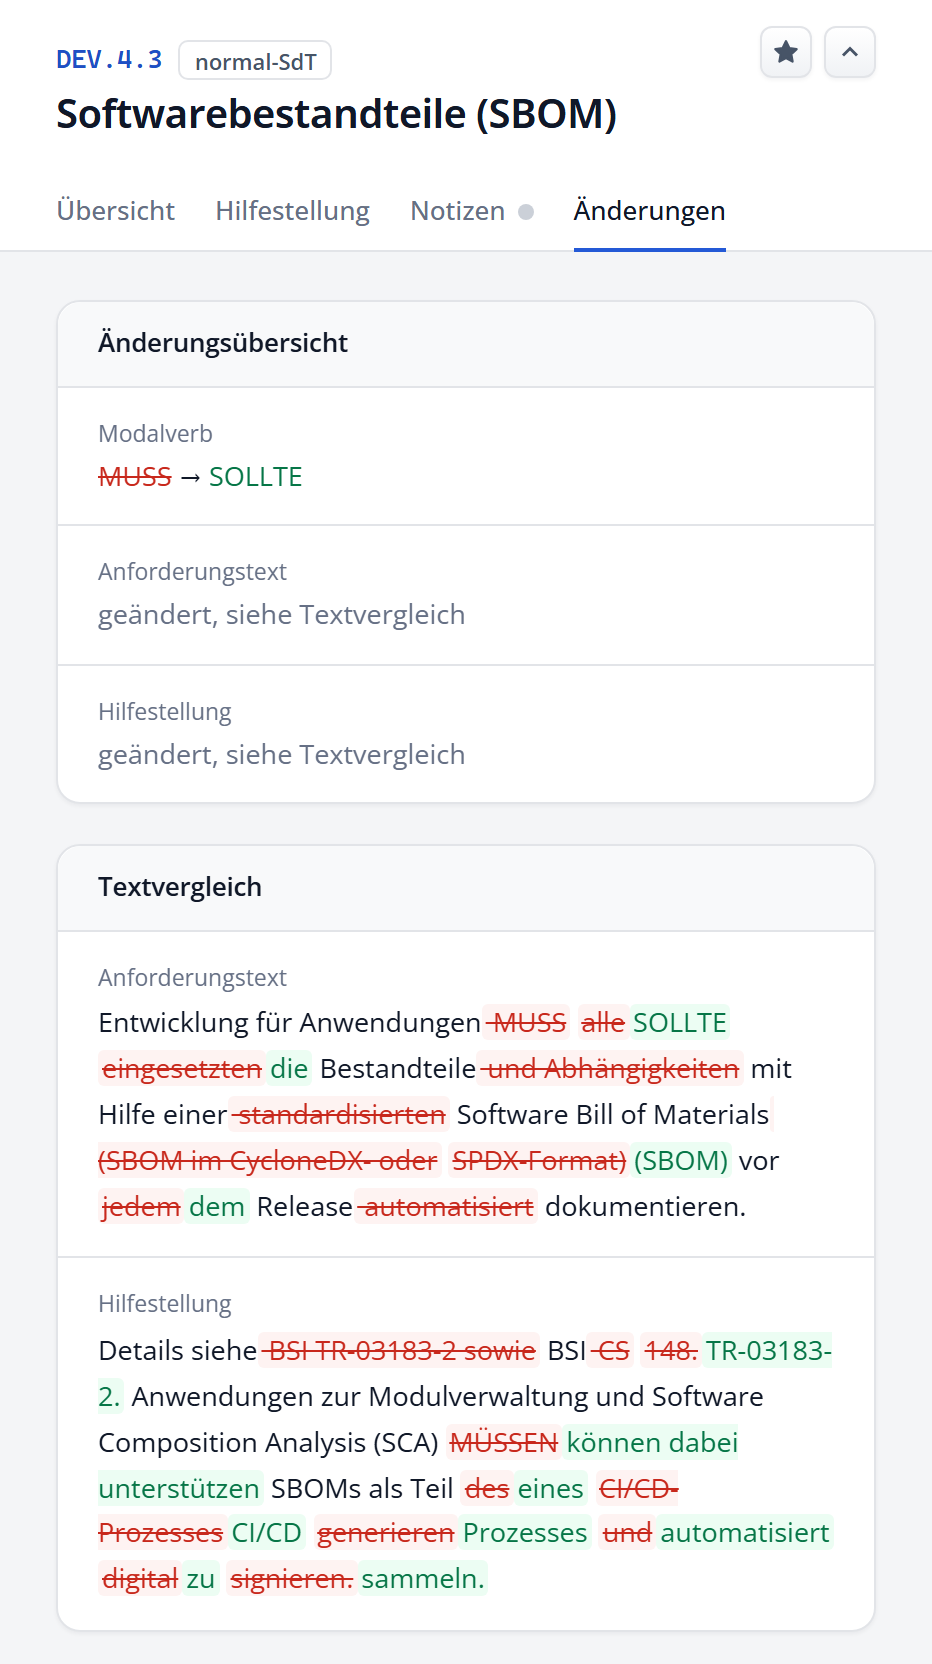
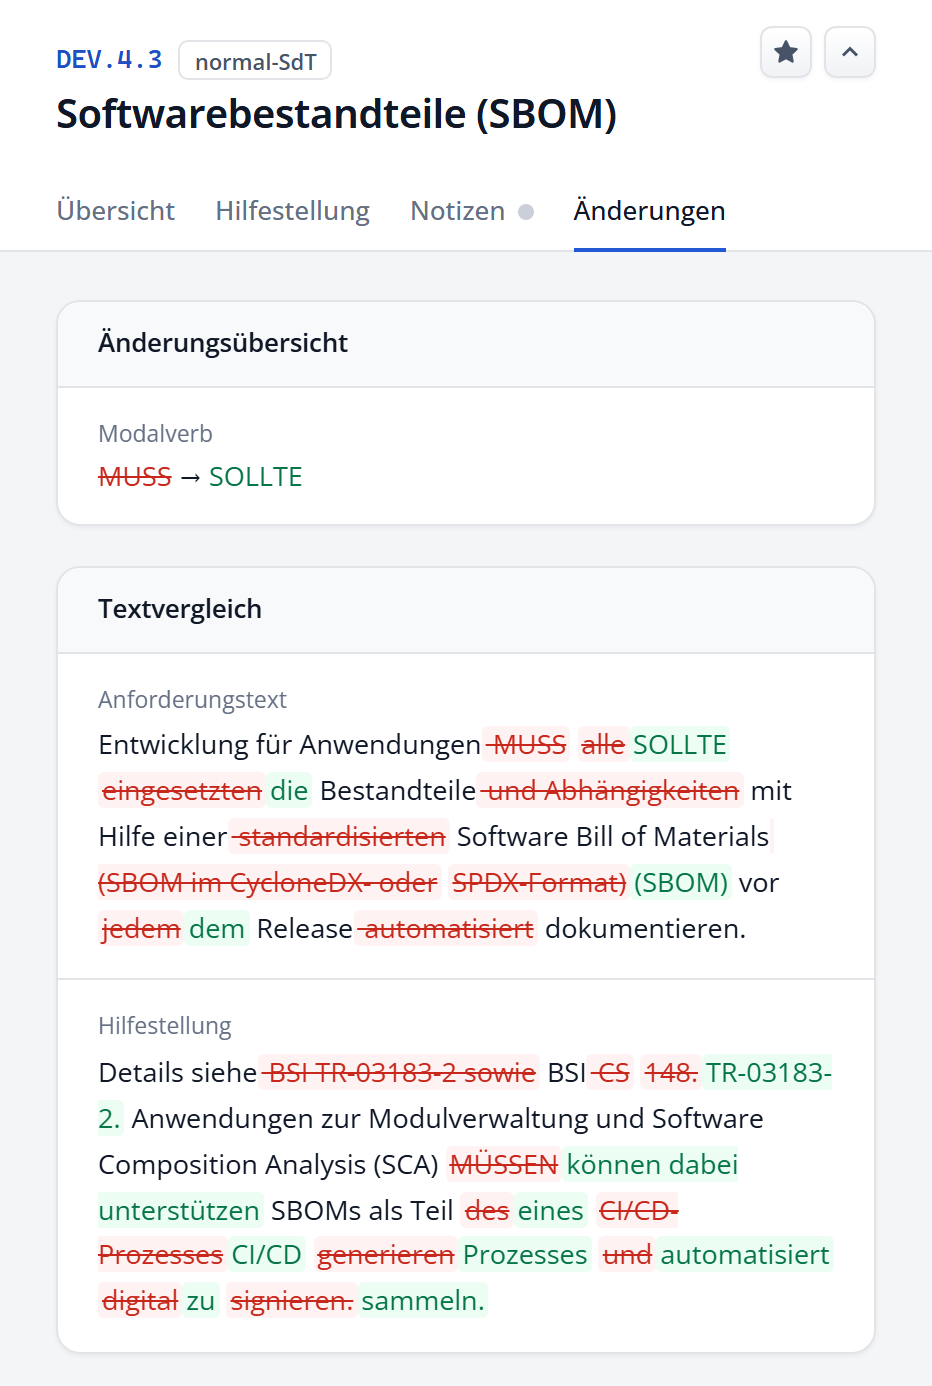
feat: update change overview logic and enhance UI for better clarity

diff --git a/src/index.html b/src/index.html
@@ -2413,7 +2413,7 @@
                 <!-- Änderungen -->
                 <div v-else-if="detailActiveTab === 'diff'" class="stack">
                   <!-- 1. Kategorieblock: Änderungsübersicht, je geändertes Feld eine Zeile -->
-                  <div v-if="selectedControl.diff" class="card">
+                  <div v-if="selectedControl.diff && (selectedControl.diff.status !== 'modified' || overviewChanges.length)" class="card">
                     <div class="card-head">
                       <h3>Änderungsübersicht</h3>
                     </div>
@@ -2424,10 +2424,9 @@
                         <dd v-else-if="selectedControl.diff.status === 'deleted'">Nur im Vergleichsstand enthalten, im angezeigten Katalog entfallen.</dd>
                         <dd v-else>Unverändert gegenüber dem Vergleichsstand.</dd>
                       </div>
-                      <div v-for="ch in selectedControl.diff.changes" :key="ch.field" class="kv full change-field">
+                      <div v-for="ch in overviewChanges" :key="ch.field" class="kv full change-field">
                         <dt>{{ ch.label }}</dt>
-                        <dd v-if="ch.kind === 'prose'" class="muted">geändert, siehe Textvergleich</dd>
-                        <dd v-else-if="ch.kind === 'list'">
+                        <dd v-if="ch.kind === 'list'">
                           <span v-if="ch.removed.length" class="old">{{ ch.removed.map((v) => formatChangeValue(ch.field, v)).join(', ') }}</span>
                           <span v-if="ch.removed.length && ch.added.length"> · </span>
                           <span v-if="ch.added.length" class="new">{{ ch.added.map((v) => formatChangeValue(ch.field, v)).join(', ') }}</span>

diff --git a/src/js/app.js b/src/js/app.js
@@ -1112,6 +1112,9 @@ const app = createApp({
       return comparisonCatalog.value.controlMap.get(selectedControlId.value) || null;
     });
 
+    // Zeilen der Änderungsübersicht; Textänderungen stehen im Textvergleich
+    const overviewChanges = computed(() => (selectedControl.value?.diff?.changes || []).filter((ch) => ch.kind !== 'prose'));
+
     // Word diffs
     const statementDiffTokens = computed(() => {
       if (selectedControl.value?.diff?.status !== 'modified') return [];
@@ -3237,6 +3240,7 @@ const app = createApp({
       previousControl,
       navigateBack,
       baseControlForDiff,
+      overviewChanges,
       statementDiffTokens,
       guidanceDiffTokens,
 

diff --git a/docs/handbuch/07_daten_und_versionen.md b/docs/handbuch/07_daten_und_versionen.md
@@ -61,7 +61,7 @@ Unterscheiden sich die beiden Stände, zeigt die Detailansicht den Reiter **Änd
 Reiter „Änderungen“
 ///
 
-1. **Änderungsübersicht:** alle geänderten Angaben mit den Bezeichnungen der Detailansicht, bei einzelnen Werten als *alt → neu*, z. B. ein Modalverb von `MUSS` auf `SOLLTE`. Bei Listen wie Tags oder Gefährdungen stehen entfallene Werte rot, hinzugekommene grün.
+1. **Änderungsübersicht:** alle geänderten Angaben außer den Texten mit den Bezeichnungen der Detailansicht, bei einzelnen Werten als *alt → neu*, z. B. ein Modalverb von `MUSS` auf `SOLLTE`. Bei Listen wie Tags oder Gefährdungen stehen entfallene Werte rot, hinzugekommene grün.
 2. **Textvergleich:** Für Anforderungstext und Hilfestellung zeigt ein Wortvergleich gestrichene Stellen rot durchgestrichen und neue Stellen grün hervorgehoben.
 
 ## Gespeicherte Daten löschen
